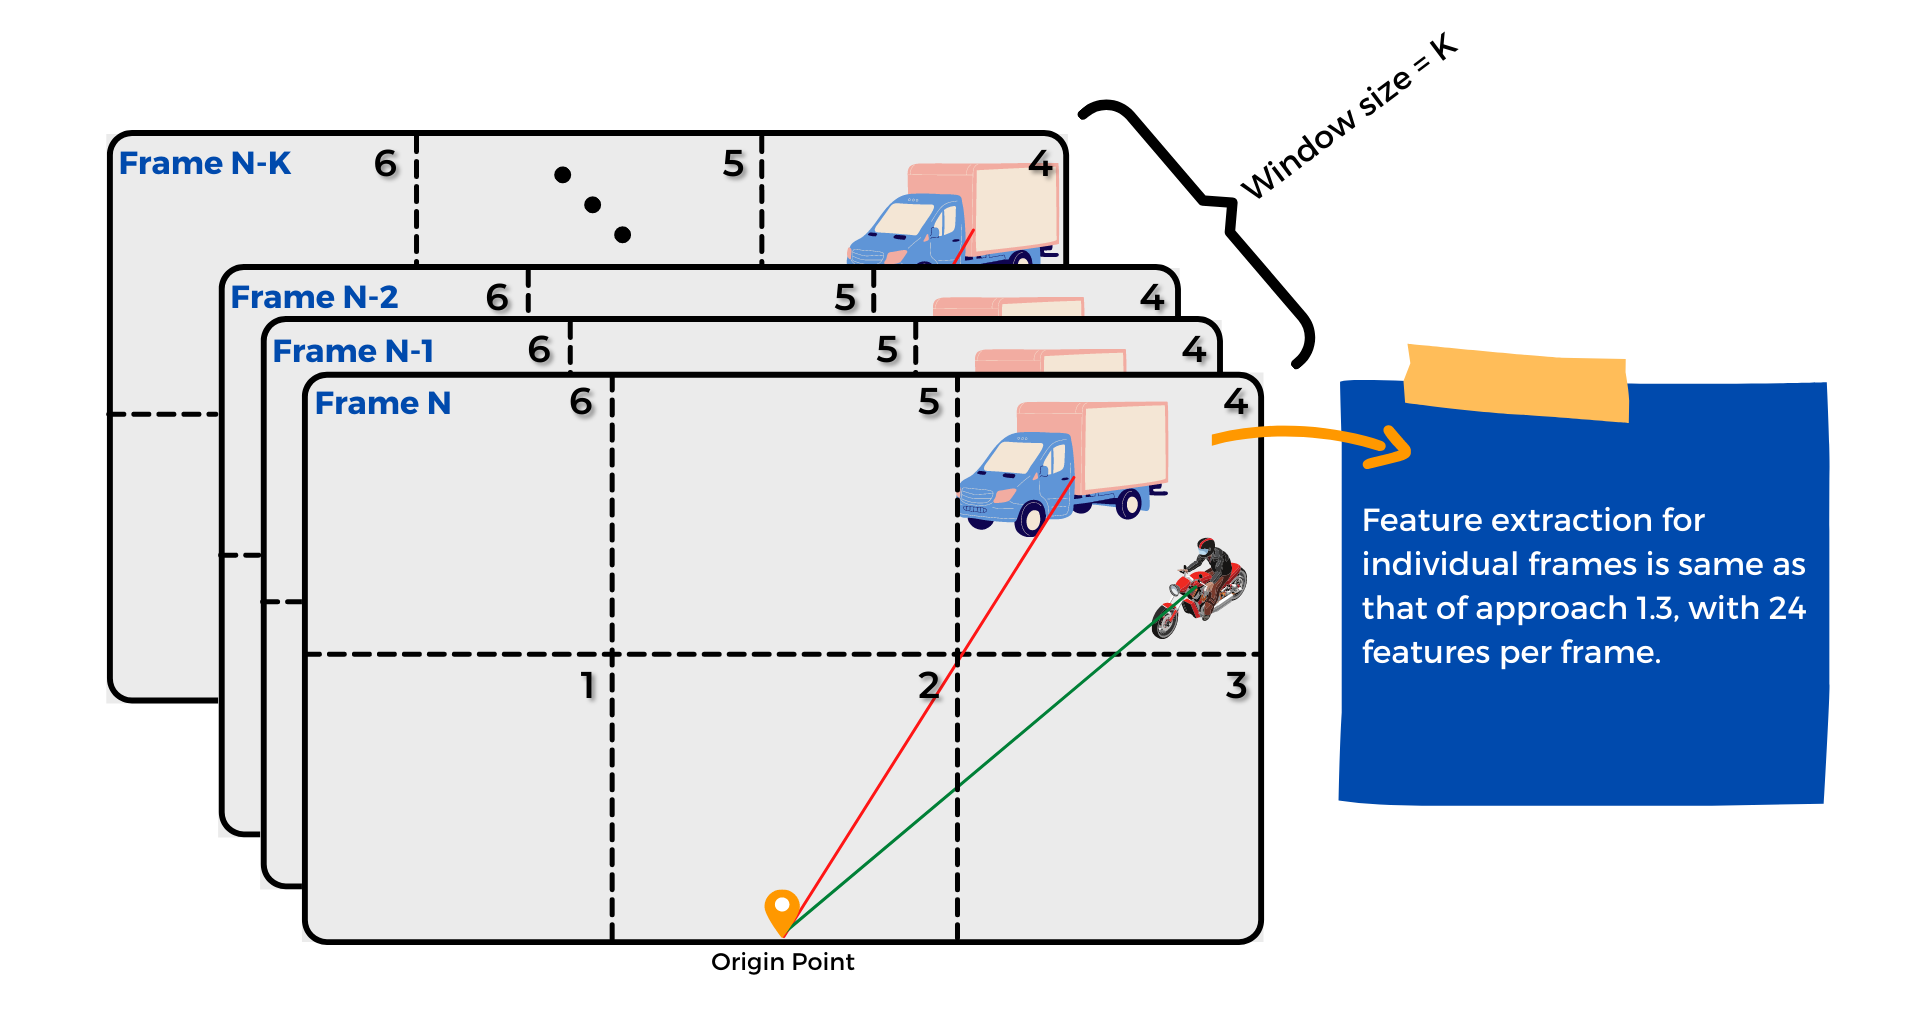
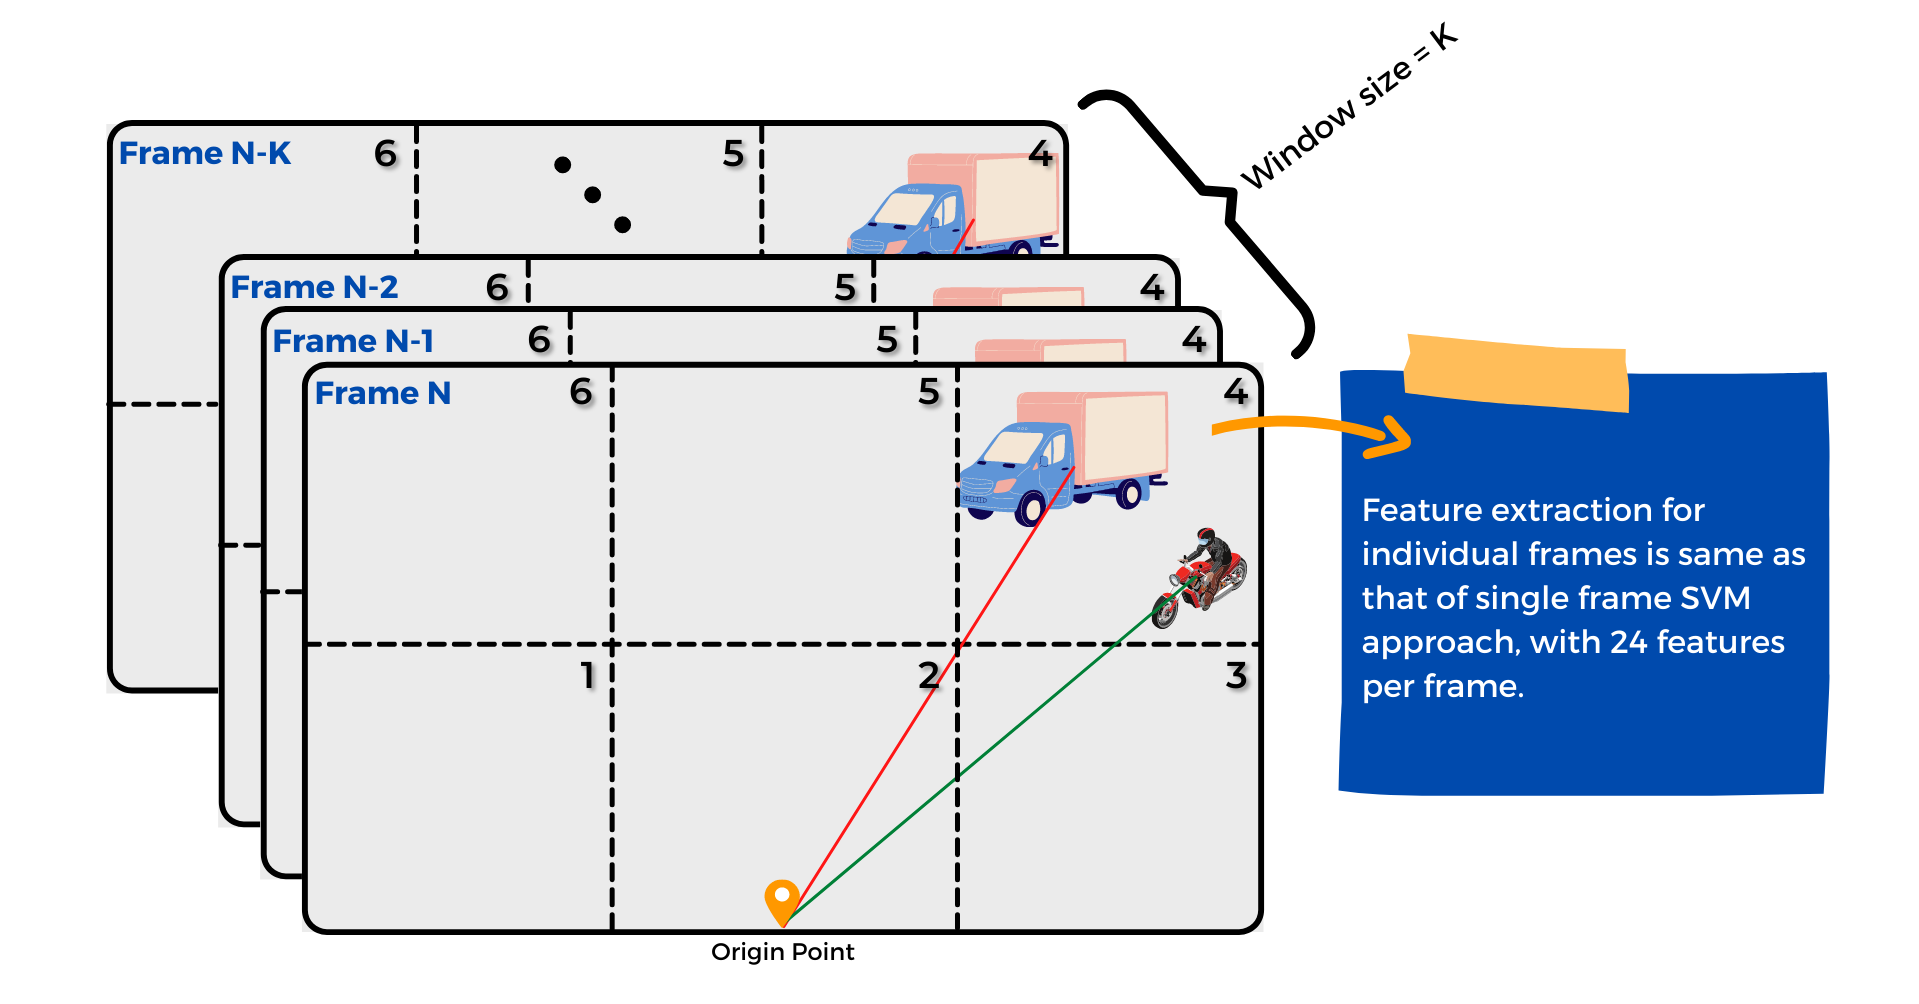
updated content

diff --git a/overview.html b/overview.html
@@ -147,7 +147,7 @@
             impaired people is an application which requires high precision
             (along with a decent enough recall) in order to be deployed in
             real-time, we have used <i><b>precision and recall</b></i> as the
-            evaluation metric for the trained models.
+            evaluation metrics for the trained models.
           </p>
 
           <section class="pricing-table">
@@ -167,9 +167,9 @@
                   <div class="col-sm-4">
                     <div class="card approach-card">
                       <div class="approach-heading bg-danger text-light py-3">
-                        <h1 class="approach-title">Approach 1.1</h1>
+                        <h3 class="approach-title"> Simple handcrafted featuress</h3>
                         <p class="accuracy-p">
-                          precision : 0.50, recall : 0.70
+                          precision : 0.51, recall : 0.70
                         </p>
                       </div>
                       <div class="approach-description py-3 px-2 text-left">
@@ -198,15 +198,15 @@
                           py-3
                         "
                       >
-                        <h1 class="approach-title">Approach 1.2</h1>
+                        <h3 class="approach-title">Existing features + directional vehicle filtering</h3>
                         <p class="accuracy-p">
-                          precision : 0.54 , recall : 0.74
+                          precision : 0.55 , recall : 0.74
                         </p>
                       </div>
                       <div class="approach-description py-3 px-2 text-left">
-                        It is an advancement over Approach 1.1 where we have
+                        It is an advancement over previous approach where we have
                         improved our feature extraction logic by ignoring the
-                        vehicles traveling on the opposite half of the road
+                        vehicles travelling on opposite half of the road
                         (using vehicle tracking).
                       </div>
                       <br />
@@ -229,16 +229,16 @@
                           py-3
                         "
                       >
-                        <h1 class="approach-title">Approach 1.3</h1>
+                        <h3 class="approach-title">Existing features + Vehicle speed</h3>
                         <p class="accuracy-p">
                           precision : 0.68 , recall : 0.87
                         </p>
                       </div>
                       <div class="approach-description py-3 px-2 text-left">
-                        It is an advancement over Approach 1.2 where we have
+                        It is an advancement over previous approach where we have
                         improved our feature extraction logic by considereing
                         relative speed of the vehicles, and we improved the
-                        labels by annotating the videos frame-wise (instead of
+                        labels by annotating videos frame-wise (instead of
                         second-wise).
                       </div>
                       <div class="read-more-div text-center">
@@ -267,16 +267,16 @@
                   <div class="col-sm-4">
                     <div class="card approach-card">
                       <div class="approach-heading bg-danger text-light py-3">
-                        <h1 class="approach-title">Approach 2.1</h1>
+                        <h3 class="approach-title">Multi frame features</h3>
                         <p class="accuracy-p">
-                          precision : 0.74 , recall : 0.88
+                          precision : 0.75 , recall : 0.88
                         </p>
                       </div>
                       <div class="approach-description py-3 px-2 text-left">
                         As it is obvious that even we as humans do not decide
                         whether it is safe to cross a road by just having one
                         glance at the road, we have started using multi-frame
-                        features instead of individual-frame features in this
+                        features instead of per-frame features in this
                         approach.
                       </div>
                       <div class="read-more-div text-center">
@@ -298,16 +298,16 @@
                           py-3
                         "
                       >
-                        <h1 class="approach-title">Approach 2.2</h1>
+                        <h3 class="approach-title">Optimized multi-frame features</h3>
                         <p class="accuracy-p">
-                          precision : 0.79 , recall : 0.83
+                          precision : 0.79 , recall : 0.84
                         </p>
                       </div>
                       <div class="approach-description py-3 px-2 text-left">
-                        It is similar to Approach 2.1, in which we have used
+                        It is similar to the previous approach, in which we have used
                         multi-frame features in a sliding window based manner.
                         Its feature extraction logic is a bit optimized as
-                        compared to that of Approach 2.1.
+                        compared to that of previous approach.
                       </div>
                       <br />
                       <div class="read-more-div text-center">
@@ -336,13 +336,13 @@
                   <div class="col-sm-4">
                     <div class="card approach-card">
                       <div class="approach-heading bg-danger text-light py-3">
-                        <h1 class="approach-title">Approach 3.1</h1>
+                        <h3 class="approach-title">MobileNetV2 based architecture</h3>
                         <p class="accuracy-p">
                           precision : 0.90 , recall : 0.60
                         </p>
                       </div>
                       <div class="approach-description py-3 px-2 text-left">
-                        In Approach 3.1, we used the MobileNetV2 architecture
+                        In this approach, we used the MobileNetV2 architecture
                         with additional dense layers at the top. We used the
                         MobileNetV2 because it is a lightweight architecture
                         particularly useful for mobile and embedded vision
@@ -369,14 +369,14 @@
                           py-3
                         "
                       >
-                        <h1 class="approach-title">Approach 3.2</h1>
+                        <h3 class="approach-title">Self developed architecture</h3>
                         <p class="accuracy-p">
-                          precision : 0.90 , recall : 0.73
+                          precision : 0.90 , recall : 0.72
                         </p>
                       </div>
                       <div class="approach-description py-3 px-2 text-left">
-                        As Approach 3.1 did not give a satisfactory performance
-                        on test data, in Approach 3.2 we have developed our own
+                        As MobileNetV2 did not give a satisfactory performance
+                        on test data, we developed our own
                         CNN architecture from scratch. However, since it's
                         convolutional layers consisted of kernels of size
                         greater than 3, its inference speed was very low even
@@ -401,14 +401,14 @@
                           py-3
                         "
                       >
-                        <h1 class="approach-title">Approach 3.3</h1>
+                        <h3 class="approach-title">Self developed architecture with dilated convolutions</h3>
                         <p class="accuracy-p">
                           precision : 0.90 , recall : 0.77
                         </p>
                       </div>
                       <div class="approach-description py-3 px-2 text-left">
-                        It is an advancement over approach 3.2, in which we have
-                        replaced the convolutional layers with larger kernal
+                        It is an advancement over previous approach, in which we have
+                        replaced the convolutional layers having larger kernal
                         size with dilated convolutional layers. This resulted in
                         a higher inference speed after optimization to TensorRT
                         graph.

diff --git a/approach-1.html b/approach-1.html
@@ -154,7 +154,7 @@
                               my-2
                             "
                           >
-                            <a id="approach1.1">APPROACH 1.1 </a>
+                            <a id="approach1.1">SIMPLE HANDCRAFTED FEATURES </a>
                           </h4>
                         </div>
                         <hr style="height: 1px; background-color: #efefef" />
@@ -224,15 +224,15 @@
                                 safe/unsafe.
                               </li>
                               <li>
-                                Precision : <b>0.72</b>, Recall :
+                                Precision : <b>0.73</b>, Recall :
                                 <b>0.78</b> (on train data)
                               </li>
                               <li>
-                                Precision : <b>0.50</b>, Recall :
+                                Precision : <b>0.51</b>, Recall :
                                 <b>0.70</b> (on test data)
                               </li>
                               <li>
-                                Mean average precision on test data: <b>0.58</b>
+                                Mean average precision on test data: <b>0.57</b>
                               </li>
                               <li>
                                 Python implementaion for the same can be found
@@ -327,7 +327,7 @@
                               my-2
                             "
                           >
-                            <a id="approach1.2">APPROACH 1.2 </a>
+                            <a id="approach1.2">EXISTING FEATURES + DIRECTIONAL VEHICLE FILTERING </a>
                           </h4>
                         </div>
                         <hr style="height: 1px; background-color: #efefef" />
@@ -358,13 +358,13 @@
                             vehicles marked in red) is not required. So, we have
                             not considered those vehicles as features. We have
                             written a simple logic for detecting direction of
-                            vehicles; python implementation for the same can be
+                            vehicles (python implementation for the same can be
                             found
                             <a
                               href="https://github.com/roadcross-assistant/Project/blob/master/utilities/get_directions_from_videos.py"
                               target="_blank"
                             >
-                              <u>here</u>.</a
+                              <u>here)</u>.</a
                             >
                             <br /><br />
                           </span>
@@ -400,14 +400,14 @@
                               </li>
                               <li>
                                 Precision : <b>0.74</b>, Recall :
-                                <b>0.82</b> (on train data)
+                                <b>0.83</b> (on train data)
                               </li>
                               <li>
-                                Precision : <b>0.54</b>, Recall :
+                                Precision : <b>0.55</b>, Recall :
                                 <b>0.74</b> (on test data)
                               </li>
                               <li>
-                                Mean average precision on test data: <b>0.64</b>
+                                Mean average precision on test data: <b>0.66</b>
                               </li>
                               <li>
                                 Python implementaion for the same can be found
@@ -502,7 +502,7 @@
                               my-2
                             "
                           >
-                            <a id="approach1.3">APPROACH 1.3 </a>
+                            <a id="approach1.3">EXISTING FEATURES + VEHICLE SPEED </a>
                           </h4>
                         </div>
                         <hr style="height: 1px; background-color: #efefef" />
@@ -511,8 +511,8 @@
                         we have made an attempt to
                         <b>improve our features and labels</b>. For improving
                         the labels, we have annotated each video with the frame
-                        number when the safe duration starts, and the frame
-                        number when the safe duration ends. We have written a
+                        number when safe duration starts, and the frame
+                        number when safe duration ends. We have written a
                         simple logic to record the frame numbers corresponding
                         to safe durations by pressing particular keys. Python
                         implementation for the same can be found
@@ -545,7 +545,7 @@
                           <span>
                             <br />
                             The feature extraction logic is same as that of
-                            Approach 1.2, with just one feature addition as per
+                            Approach 1.2, with just one addition as per
                             the <b> speed of vehicles</b>. It is very intuitive
                             that speed of vehicles is a very important aspect to
                             be considered while crossing roads. So, we have
@@ -591,14 +591,14 @@
                               </li>
                               <li>
                                 Precision : <b>0.82</b>, Recall :
-                                <b>0.89</b> (on train data)
+                                <b>0.90</b> (on train data)
                               </li>
                               <li>
                                 Precision : <b>0.68</b>, Recall :
                                 <b>0.87</b> (on test data)
                               </li>
                               <li>
-                                Mean average precision on test data: <b>0.74</b>
+                                Mean average precision on test data: <b>0.81</b>
                               </li>
                               <li>
                                 Python implementaion for the same can be found

diff --git a/approach-2.html b/approach-2.html
@@ -155,7 +155,7 @@
                               my-2
                             "
                           >
-                            <a id="approach2.1">APPROACH 2.1 </a>
+                            <a id="approach2.1">MULTI-FRAME FEATURES </a>
                           </h4>
                         </div>
                         <hr style="height: 1px; background-color: #efefef" />
@@ -163,7 +163,7 @@
                         As it is obvious that even we as humans do not decide
                         whether it is safe to cross a road by just having one
                         glance at the road, we have started using multi-frame
-                        features instead of individual-frame features in this
+                        features instead of per-frame features in this
                         approach.
                         <br /><br />
                         <div class="text-primary font-weight-bold text-xls h5">
@@ -183,7 +183,7 @@
                             frames (i.e., the current frame plus past few
                             frames). The features of individual frames are
                             extracted as per the feature extraction logic of
-                            Approach 1.3, with 24 features per frame. So if we
+                            previous approach, with 24 features per frame. So if we
                             take window size = 10, the length of feature vector
                             will be 24*10 = 240.
                           </span>
@@ -219,14 +219,14 @@
                               </li>
                               <li>
                                 Precision : <b>0.85</b>, Recall :
-                                <b>0.78</b> (on train data)
+                                <b>0.90</b> (on train data)
                               </li>
                               <li>
-                                Precision : <b>0.74</b>, Recall :
-                                <b>0.89</b> (on test data)
+                                Precision : <b>0.75</b>, Recall :
+                                <b>0.88</b> (on test data)
                               </li>
                               <li>
-                                Mean average precision on test data: <b>0.80</b>
+                                Mean average precision on test data: <b>0.88  </b>
                               </li>
                               <li>
                                 Python implementaion for the same can be found
@@ -321,14 +321,14 @@
                               my-2
                             "
                           >
-                            <a id="approach2.2">APPROACH 2.2 </a>
+                            <a id="approach2.2">OPTIMIZED MULTI-FRAME FEATURES </a>
                           </h4>
                         </div>
                         <hr style="height: 1px; background-color: #efefef" />
 
                         This is similar to the above approach, in which we have
                         used multi-frame features in a sliding window based
-                        manner - we have made an attempt to optimize the feature
+                        manner; we have made an attempt to optimize the feature
                         extraction logic. <br /><br />
                         <div class="text-primary font-weight-bold text-xls h5">
                           <span>Feature Extraction</span>
@@ -346,10 +346,9 @@
                             particular frame, we consider an entire window of
                             frames (i.e., the current frame plus past few
                             frames). The feature vector for a particular frame
-                            consists of 24 features of that frame (as per the
-                            feature extraction logic of Approach 1.3), and it
+                            consists of 24 features of that frame, and it
                             additionally consists of predicted labels for few
-                            previous frames using saved model of Approach 1.3.
+                            previous frames using saved model of single frame SVM.
                             So if we take window size = 10, the length of
                             feature vector will be 24 + 9 = 33.
                           </span>
@@ -383,20 +382,17 @@
                                 classification model to predict if a frame is
                                 safe/unsafe.
                               </li>
+                              
                               <li>
-                                Precision : <b>0.72</b>, Recall :
-                                <b>0.78</b> (on train data)
-                              </li>
-                              <li>
-                                Precision : <b>0.86</b>, Recall :
+                                Precision : <b>0.87</b>, Recall :
                                 <b>0.85</b> (on train data)
                               </li>
                               <li>
                                 Precision : <b>0.79</b>, Recall :
-                                <b>0.83</b> (on test data)
+                                <b>0.84</b> (on test data)
                               </li>
                               <li>
-                                Mean average precision on test data: <b>0.80</b>
+                                Mean average precision on test data: <b>0.84</b>
                               </li>
                               <li>
                                 Python implementaion for the same can be found

diff --git a/assets/styles/overview-styles.css b/assets/styles/overview-styles.css
@@ -137,6 +137,7 @@ p {
   text-align: center;
 }
 
+
 .approach-card {
   min-height: 90%;
   border: 1px solid #cfcfcf;
@@ -160,6 +161,13 @@ p {
   background-color: #27ae60;
 }
 
+.approach-title
+{ 
+  /* font-size: 1.2em; */
+  font-weight: 500;
+}
+
 .accuracy-p {
-  font-weight: 700;
+  font-weight: 550;
+  font-style: italic;
 }
